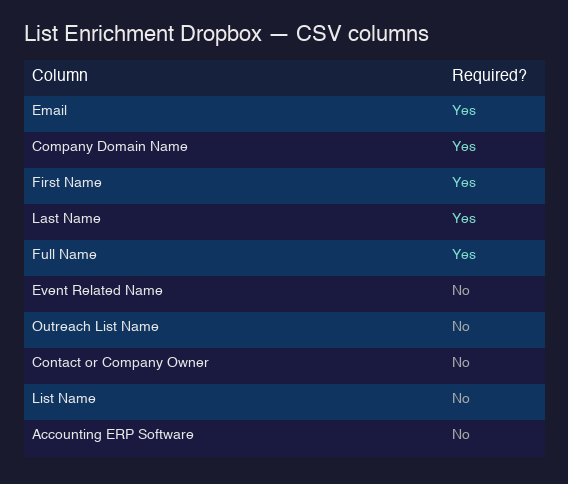
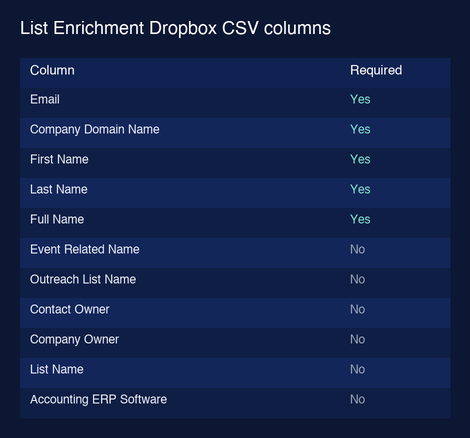
Polish format guide: split owner field, sharper smaller image, cleaner notice
- Split "Contact or Company Owner" into "Contact Owner" + "Company Owner" (both optional)
- Regenerated format_guide.png at 2x downscale for crisp text, smaller dimensions (470px)
- Display image at fixed 470px width instead of stretching
- Updated sample CSV to include the new column split
- Removed em-dash dividers from the heads-up notice

diff --git a/scripts/generate_format_image.py b/scripts/generate_format_image.py
@@ -9,45 +9,97 @@ sys.path.insert(0, str(ROOT))
 from PIL import Image, ImageDraw, ImageFont
 
 from config import OPTIONAL_HEADERS, REQUIRED_HEADERS
+
 OUT = ROOT / "assets" / "format_guide.png"
 
+# Render at 2x then downscale for crisper anti-aliased text
+SCALE = 2
 
-def main():
-    rows = [("Column", "Required?")]
+
+def _font(path_candidates: list[str], size: int) -> ImageFont.ImageFont:
+    for p in path_candidates:
+        try:
+            return ImageFont.truetype(p, size)
+        except OSError:
+            continue
+    return ImageFont.load_default()
+
+
+def main() -> None:
+    rows = [("Column", "Required")]
     for h in REQUIRED_HEADERS:
         rows.append((h, "Yes"))
     for h in OPTIONAL_HEADERS:
         rows.append((h, "No"))
 
-    col_w = [420, 100]
-    row_h = 36
-    pad = 24
+    col_w = [320, 110]
+    row_h = 30
+    pad = 20
+    title_h = 38
     w = sum(col_w) + pad * 2
-    h = row_h * len(rows) + pad * 2 + 40
+    h = title_h + row_h * len(rows) + pad * 2
 
-    img = Image.new("RGB", (w, h), "#1a1a2e")
+    W, H = w * SCALE, h * SCALE
+    img = Image.new("RGB", (W, H), "#0c1733")
     draw = ImageDraw.Draw(img)
 
-    try:
-        title_font = ImageFont.truetype("/System/Library/Fonts/Helvetica.ttc", 22)
-        header_font = ImageFont.truetype("/System/Library/Fonts/Helvetica.ttc", 16)
-        cell_font = ImageFont.truetype("/System/Library/Fonts/Helvetica.ttc", 14)
-    except OSError:
-        title_font = header_font = cell_font = ImageFont.load_default()
+    title_font = _font(
+        ["/System/Library/Fonts/Helvetica.ttc", "/Library/Fonts/Arial.ttf"],
+        18 * SCALE,
+    )
+    header_font = _font(
+        ["/System/Library/Fonts/Helvetica.ttc", "/Library/Fonts/Arial.ttf"],
+        13 * SCALE,
+    )
+    cell_font = _font(
+        ["/System/Library/Fonts/Helvetica.ttc", "/Library/Fonts/Arial.ttf"],
+        12 * SCALE,
+    )
 
-    draw.text((pad, pad), "List Enrichment Dropbox — CSV columns", fill="#eaeaea", font=title_font)
+    draw.text(
+        (pad * SCALE, pad * SCALE),
+        "List Enrichment Dropbox CSV columns",
+        fill="#ffffff",
+        font=title_font,
+    )
 
-    y0 = pad + 36
+    y0 = (pad + title_h) * SCALE
     for ri, (c1, c2) in enumerate(rows):
-        y = y0 + ri * row_h
-        bg = "#16213e" if ri == 0 else ("#0f3460" if ri % 2 else "#1a1a40")
-        draw.rectangle([pad, y, w - pad, y + row_h], fill=bg)
-        draw.text((pad + 8, y + 8), c1, fill="#ffffff" if ri == 0 else "#e8e8e8", font=header_font if ri == 0 else cell_font)
-        draw.text((pad + col_w[0] + 8, y + 8), c2, fill="#7fdbca" if c2 == "Yes" else "#aaaaaa" if c2 == "No" else "#ffffff", font=header_font if ri == 0 else cell_font)
+        y = y0 + ri * row_h * SCALE
+        if ri == 0:
+            bg = "#102251"
+        else:
+            bg = "#0f1e44" if ri % 2 else "#13265a"
+        draw.rectangle(
+            [pad * SCALE, y, (w - pad) * SCALE, y + row_h * SCALE],
+            fill=bg,
+        )
 
+        text_color_left = "#ffffff" if ri == 0 else "#e8ecf6"
+        if ri == 0:
+            text_color_right = "#ffffff"
+        elif c2 == "Yes":
+            text_color_right = "#7fdbca"
+        else:
+            text_color_right = "#9aa3b6"
+
+        draw.text(
+            ((pad + 10) * SCALE, y + 6 * SCALE),
+            c1,
+            fill=text_color_left,
+            font=header_font if ri == 0 else cell_font,
+        )
+        draw.text(
+            ((pad + col_w[0] + 10) * SCALE, y + 6 * SCALE),
+            c2,
+            fill=text_color_right,
+            font=header_font if ri == 0 else cell_font,
+        )
+
+    final = img.resize((w, h), Image.LANCZOS)
     OUT.parent.mkdir(parents=True, exist_ok=True)
-    img.save(OUT)
-    print(f"Wrote {OUT}")
+    final.save(OUT, optimize=True)
+    print(f"Wrote {OUT} ({w}x{h}, rendered at {W}x{H})")
 
 
 if __name__ == "__main__":

diff --git a/app.py b/app.py
@@ -111,11 +111,11 @@ def render_header():
 def render_notice():
     st.markdown(
         '<div class="notice">'
-        "<b>Heads up — before you upload:</b><br>"
+        "<b>Heads up before you upload:</b><br>"
         "Contacts you submit go through Clay enrichment and qualification. "
-        "<b>Not every contact will make it through</b> — some may be filtered out, "
+        "<b>Not every contact will make it through.</b> Some may be filtered out, "
         "deduped, or removed if they don't meet our criteria. "
-        "<b>Ownership won't always land with you</b> — existing contact or company owners "
+        "<b>Ownership won't always land with you.</b> Existing contact or company owners "
         "in HubSpot won't be overwritten, so some records will stay with their current owner. "
         "Thanks for understanding!"
         "</div>",
@@ -150,9 +150,7 @@ def render_format_section():
     )
 
     if FORMAT_IMAGE.exists():
-        img_col, _ = st.columns([0.6, 0.4])
-        with img_col:
-            st.image(str(FORMAT_IMAGE), use_container_width=True)
+        st.image(str(FORMAT_IMAGE), width=470)
 
     chips_required = "".join(f'<span class="chip">{h}</span>' for h in REQUIRED_HEADERS)
     chips_optional = "".join(f'<span class="chip chip-opt">{h}</span>' for h in OPTIONAL_HEADERS)

diff --git a/config.py b/config.py
@@ -12,7 +12,8 @@ REQUIRED_HEADERS = [
 OPTIONAL_HEADERS = [
     "Event Related Name",
     "Outreach List Name",
-    "Contact or Company Owner",
+    "Contact Owner",
+    "Company Owner",
     "List Name",
     "Accounting ERP Software",
 ]
@@ -40,9 +41,10 @@ HEADER_ALIASES = {
     "event_related_name": "Event Related Name",
     "outreach list name": "Outreach List Name",
     "outreach_list_name": "Outreach List Name",
-    "contact or company owner": "Contact or Company Owner",
-    "contact_or_company_owner": "Contact or Company Owner",
-    "owner": "Contact or Company Owner",
+    "contact owner": "Contact Owner",
+    "contact_owner": "Contact Owner",
+    "company owner": "Company Owner",
+    "company_owner": "Company Owner",
     "list name": "List Name",
     "list_name": "List Name",
     "accounting erp software": "Accounting ERP Software",